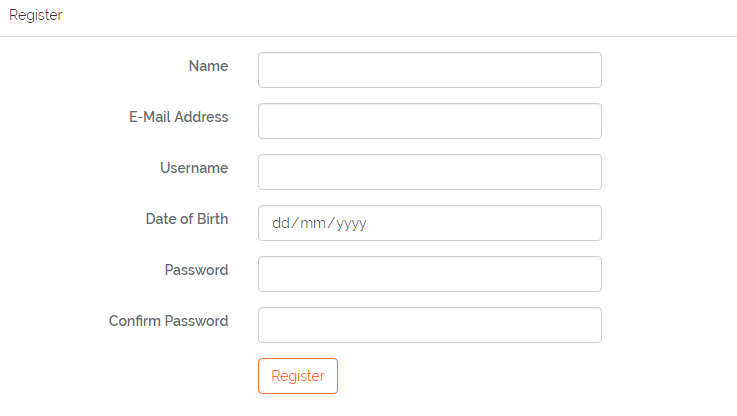
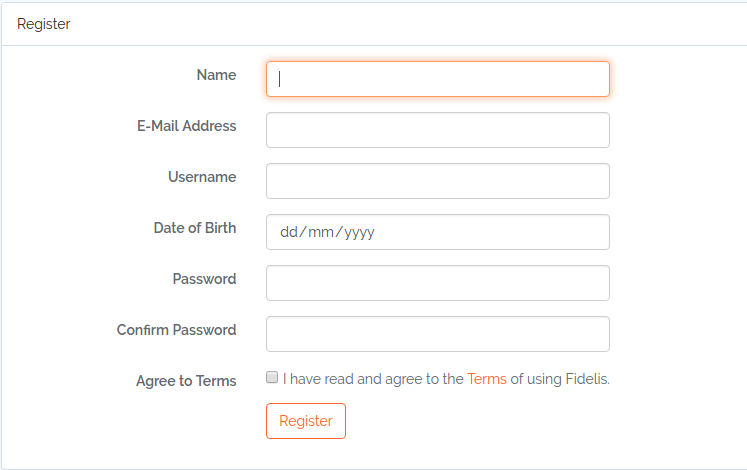
Design - Terms page. Also updated register page to include terms checkbox

diff --git a/Chapters/5.Design/UserInterface.tex b/Chapters/5.Design/UserInterface.tex
@@ -89,7 +89,7 @@ The registration page should enable new users to enter their details and create 
 \label{fig:reg-pages}
 \end{figure}
 
-Figure \ref{fig:register-page} shows the design for the Fidelis registration page. Users will be required to enter their name, email, username, date of birth and password. Although not entirely necessary initially, it was decided to retain user date of births as thought was put into future uses for it. As the system grows, it is inevitable that certain categories or tags will contain content unsuitable for younger audiences. Therefore, age can be used a tool to filter unsuitable content for younger users.
+Figure \ref{fig:register-page} shows the design for the Fidelis registration page. Users will be required to enter their name, email, username, date of birth and password. Although not entirely necessary initially, it was decided to retain user date of births as thought was put into future uses for it. As the system grows, it is inevitable that certain categories or tags will contain content unsuitable for younger audiences. Therefore, age can be used a tool to filter unsuitable content for younger users. In order to ensure that the user's are compliant with the terms of the site, they must mark that they agree to the terms of the site before registration can be completed.
 
 \begin{figure}[H]
 \centering
@@ -161,7 +161,7 @@ The user profile page (shown in figure \ref{fig:user_profile}) allows the user t
 The two static pages aim to address the possible issues discussed in section \ref{Chapter:Issues}, by displaying information about the terms of use for Fidelis and providing support in order to help alleviate any personal issues which can arise through the use of social networking sites. These pages are accessible to both authorised users and guests visiting Fidelis. Both static pages are accessible via links in the footer of every page.
 
 \subsubsection{Support}
-The support page displays details of how to deal with content on the site which may distress the user. Fidelis aims to keep this content to a minimum, through the abuse detection, reputation scoring and terms of service, however, some content may still be posted on the platform which is not prevented via these measures. Therefore, the page lists options of how to remove the content, by reporting it and adjusting abuse detection settings. It also provides contact details to the Samaritan's \cite{Samaritans:Home}, who can offer support in case of any social issues which may arise on the network such as cyber-bullying. The styling for the page is simplistic, using bullet points in order to break down the information being provided.
+The support page displays details of how to deal with content on the site which may distress the user. Fidelis aims to keep this content to a minimum, through the abuse detection, reputation scoring and terms of service, however, some content may still be posted on the platform which is not prevented via these measures. Therefore, the page lists options of how to remove the content, by reporting it and adjusting abuse detection settings. It also provides contact details to the Samaritan's \cite{Samaritans:Home}, who can offer support in case of any social issues which may arise on the network such as cyber-bullying. As seen in figure \ref{fig:user_profile}, the styling for the page is simplistic, using bullet points in order to break down the information being provided.
 
 \begin{figure}[H]
 \centering
@@ -171,8 +171,7 @@ The support page displays details of how to deal with content on the site which 
 \end{figure}
 
 \subsubsection{Terms}
-
-Terms...
+The styling for the terms page is the same as the support page, using bullet points to make the information more readable, as shown in figure \ref{fig:user_profile}. However, the information provided is regarding the terms of service, to ensure that the user understands what is expected of them when using the site and the service Fidelis is expected to provide. This is to help avoid any legal issues which may arise from the content which is posted on the site by users.
 
 \begin{figure}[H]
 \centering
